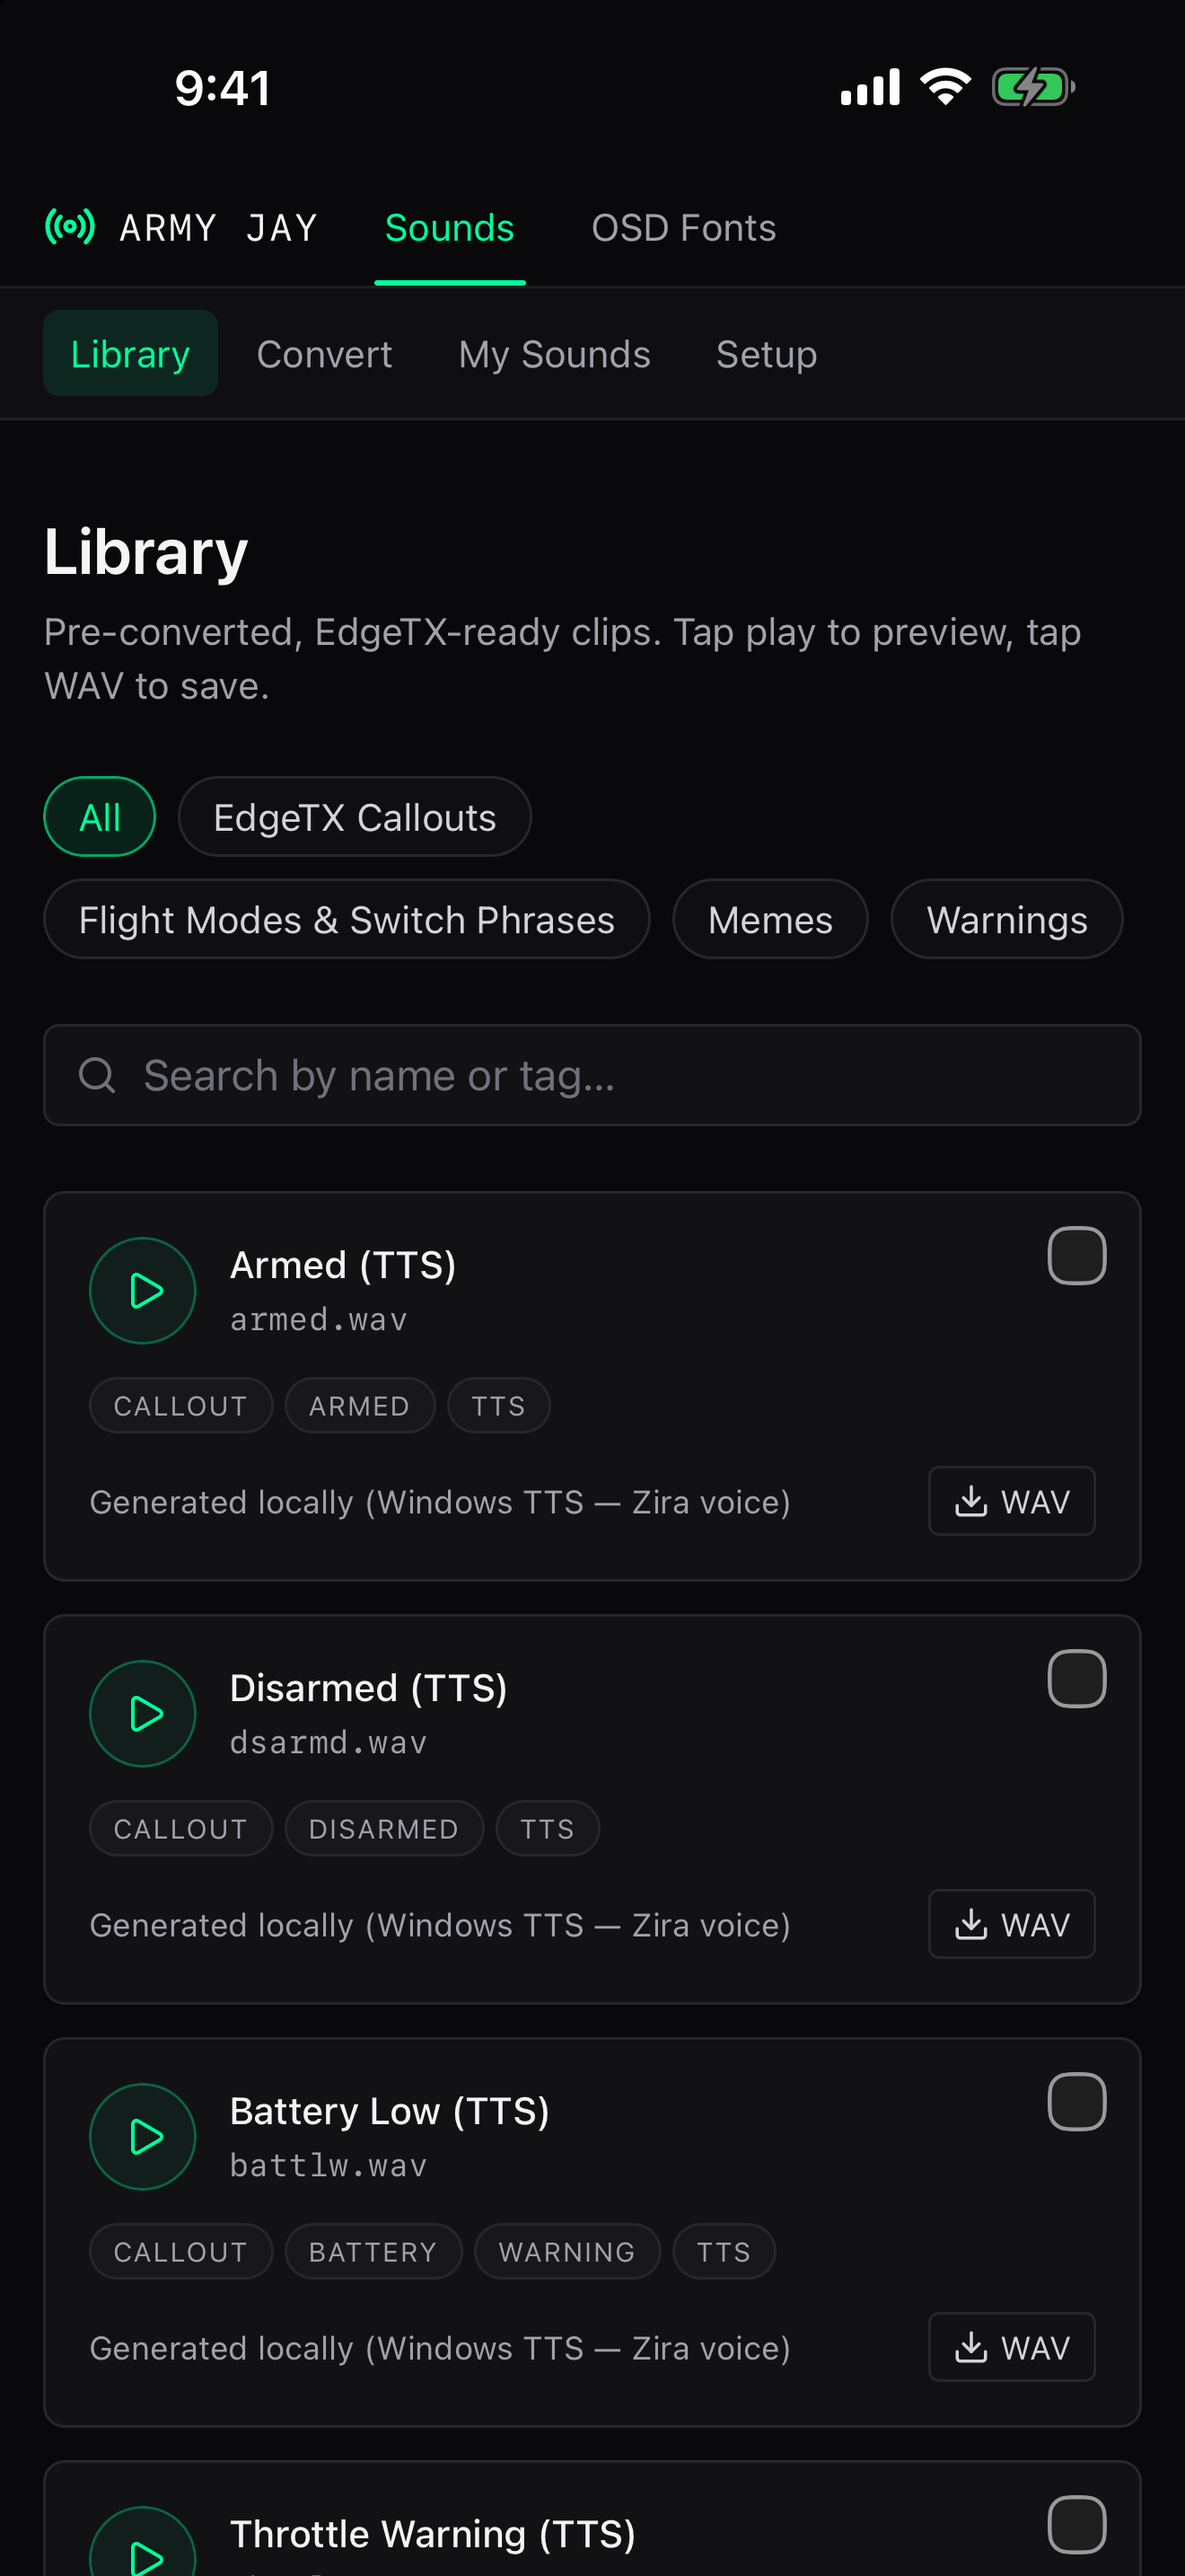
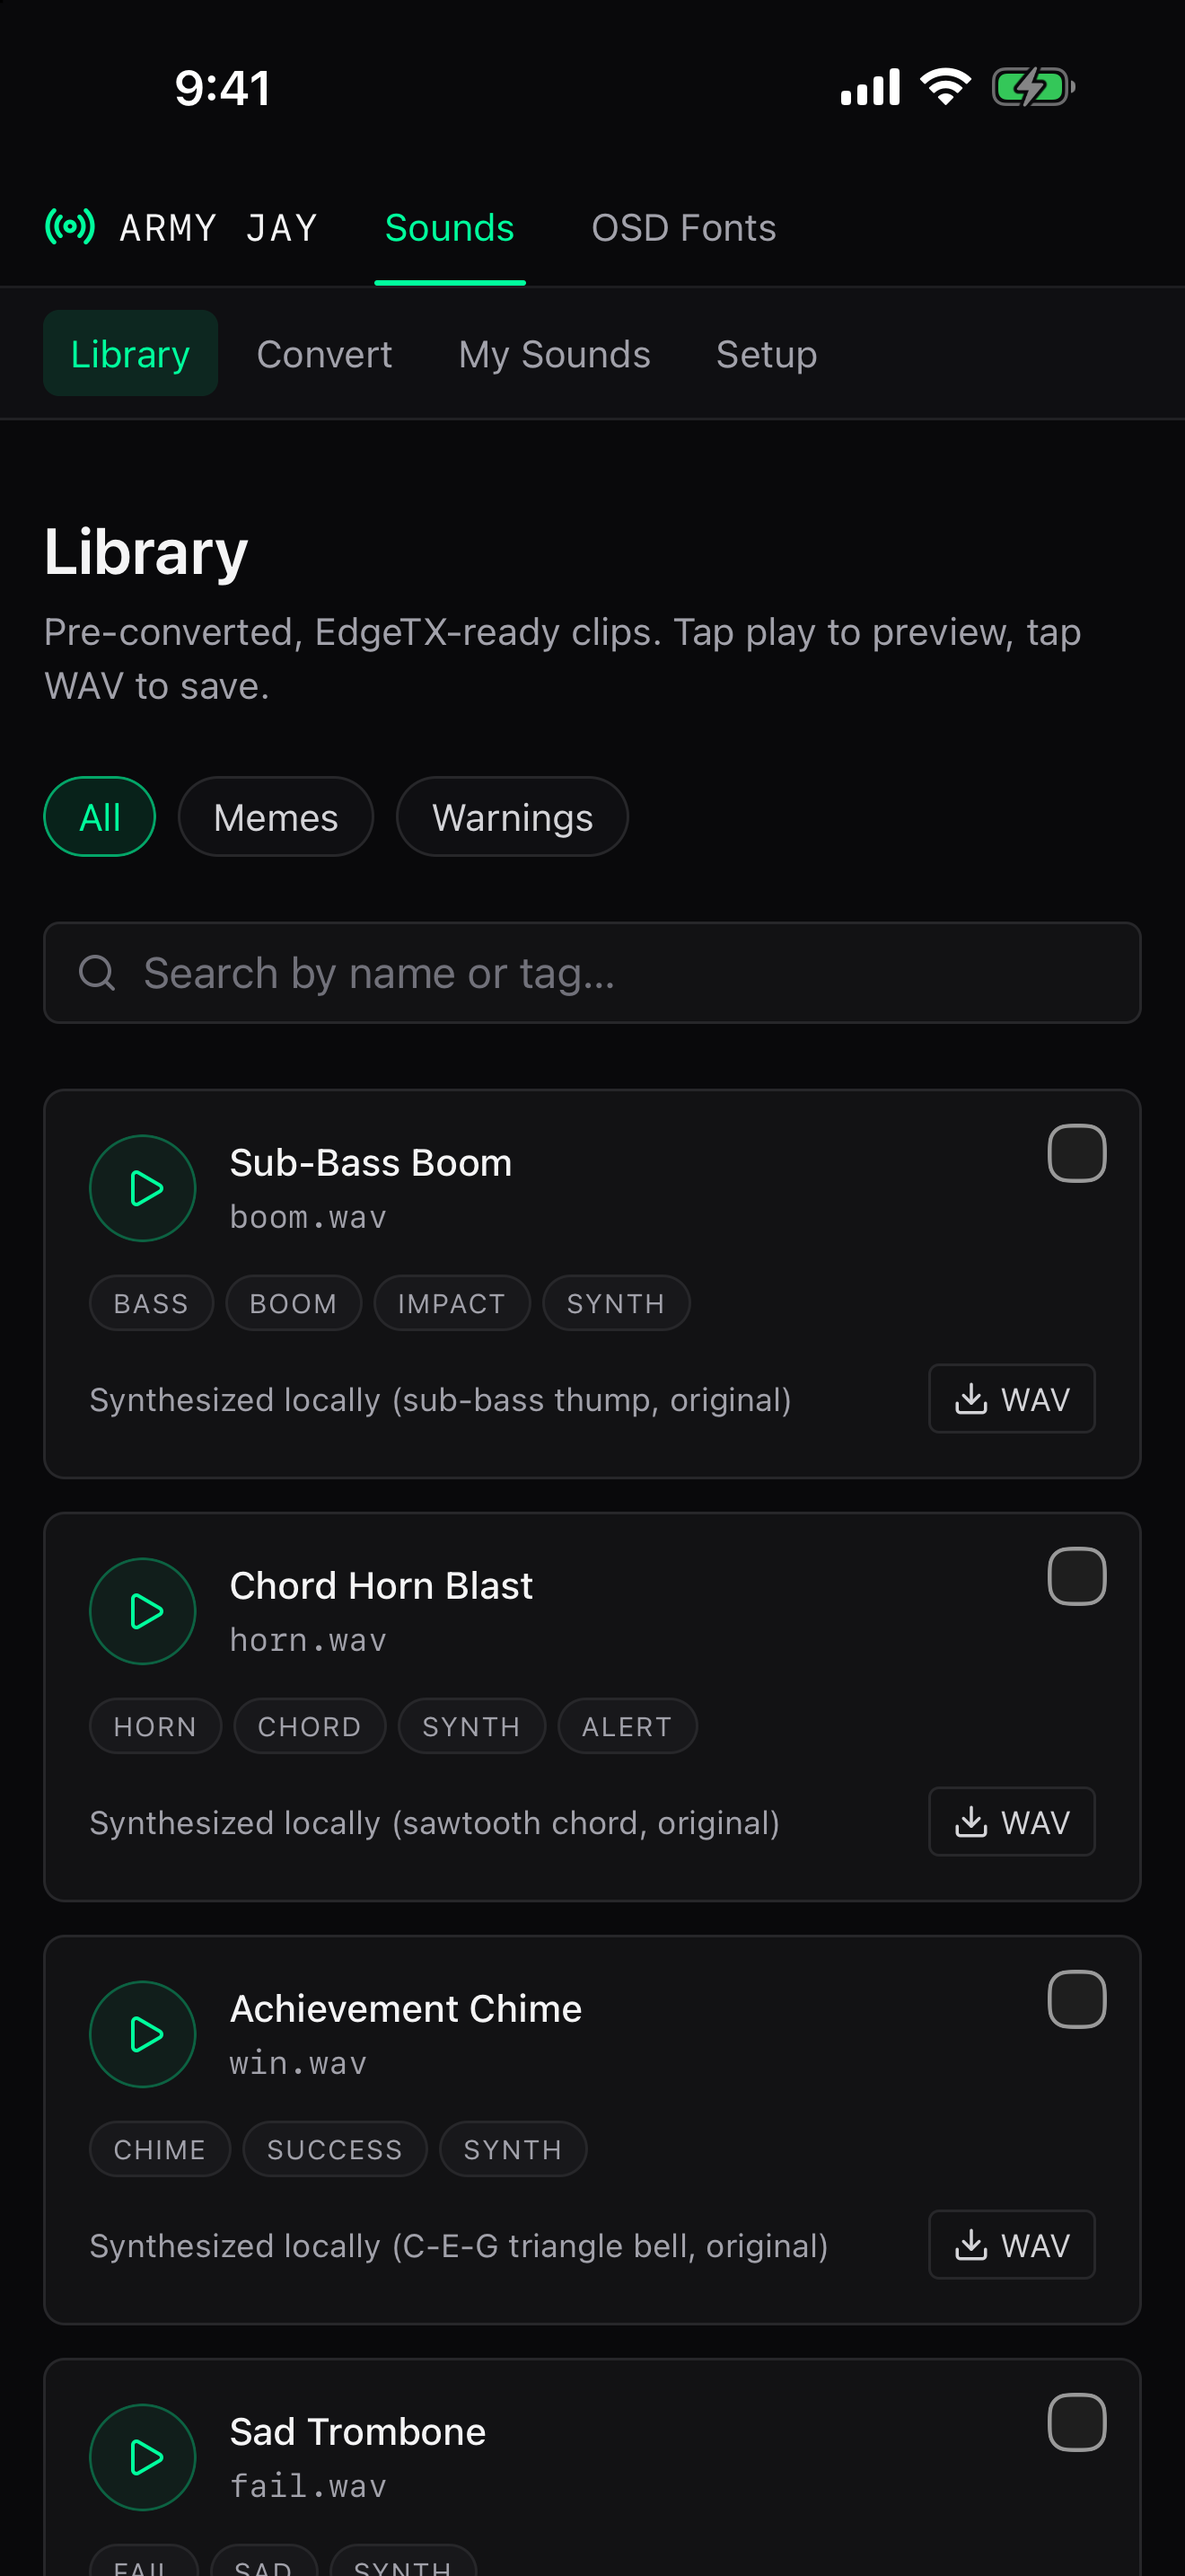
Leave the Zira voice callouts out of the iPhone app
The 21 callouts were made with Windows' Zira TTS voice, and Microsoft's
terms for redistributing that output in an app are unclear. They are now
tagged windows-tts, which the app's licence allowlist drops, so the app
ships only the 6 synthesized tones. The site keeps all of them.

The Library screenshot and the listing's wording follow.

diff --git a/docs/APP_STORE_SUBMISSION.md b/docs/APP_STORE_SUBMISSION.md
@@ -35,7 +35,7 @@ description: |
   SOUNDS FOR EDGETX
   Turn any audio clip into the exact file EdgeTX radios accept: 32 kHz, mono, 16-bit WAV. Pick a file from Files, trim it to the second you want, choose which event it should play on, and save it straight to Files or AirDrop it to your computer. Conversion happens on your phone; nothing is uploaded.
 
-  Not sure what to call it? Trigger presets fill in the filenames EdgeTX plays on its own, for events like arming, disarming and low battery. A library of ready-made callouts is included, and every clip you convert is kept in My Sounds so you can save them all as one ZIP for your SD card.
+  Not sure what to call it? Trigger presets fill in the filenames EdgeTX plays on its own, for events like arming, disarming and low battery. A handful of ready-made warning tones is included, and every clip you convert is kept in My Sounds so you can save them all as one ZIP for your SD card.
 
   OSD FONTS FOR BETAFLIGHT
   Browse the Army Jay MAX7456 character sets for analog Betaflight OSDs: bold stencil letters and chunky icons, each outlined in black so they read over bright sky and dark ground. Every glyph is shown decoded from the font file itself.
@@ -45,7 +45,7 @@ description: |
   Features:
   - Convert MP3, M4A, WAV and FLAC to EdgeTX-ready WAV
   - Trim clips and name them for EdgeTX's built-in events
-  - Library of ready-made flight callouts
+  - Ready-made warning tones and sound effects
   - My Sounds keeps everything you convert; save it all as one ZIP
   - Three Army Jay OSD font variants, including a high-readability set
   - Pixel glyph editor and boot splash designer
@@ -62,7 +62,7 @@ marketing_url: https://chalkyjason.github.io/MyWebsite/projects/army-jay/
 ### 6.9-inch (iPhone 17 Pro Max)
 
 - screenshots/appstore/01-convert.png        # a clip trimmed, named for the "armed" event, converted
-- screenshots/appstore/02-library.png        # the callout library
+- screenshots/appstore/02-library.png        # the library of ready-made tones
 - screenshots/appstore/03-font.png           # the armyjay_full font and its boot splash
 - screenshots/appstore/04-editor.png         # the pixel glyph editor
 - screenshots/appstore/05-start-screen.png   # a boot splash typed in with the text template
@@ -126,9 +126,9 @@ Open items the app's code can't settle:
    Army Jay fonts only. The Army Jay fonts match stock at 8 of 256 indexes
    (MODIFIED_INDEXES.md), and all 8 are blank or transparent -- no stock
    artwork ships.
-2. **The library's voice callouts were made with Windows' Zira TTS voice.**
-   Check that Microsoft's terms allow redistributing that output in a
-   free app.
+2. ~~**The Zira voice callouts.**~~ Resolved: the 21 callouts made with
+   Windows' Zira TTS voice are tagged `windows-tts` and left out of the app;
+   it ships the 6 synthesized tones only. The website keeps them.
 3. **Test on a real iPhone**: the device checklist in
    `docs/superpowers/specs/2026-09-30-capacitor-ios-app-design.md`.
 4. **Phone number** for the review contact, above.

diff --git a/web/README.md b/web/README.md
@@ -118,11 +118,13 @@ npm run ios:sim     # unsigned simulator build (DerivedData under ~/Library)
 npm run ios:open    # the Xcode project, for a signed build on a phone
 ```
 
-`dist-ios/` is `dist/` with the library trimmed to the 27 sounds licensed
+`dist-ios/` is `dist/` with the library trimmed to the 6 sounds licensed
 `generated-original` (`scripts/trim-library.mjs`, an allowlist that fails
-closed) and the web-host files removed (`scripts/prepare-ios.mjs`).
-Capacitor's `webDir` points at `dist-ios/`, never `dist/`, so the 71
-fair-use clips cannot reach the App Store build.
+closed), and ffmpeg, Betaflight's stock font and the web-host files removed
+(`scripts/prepare-ios.mjs`). Capacitor's `webDir` points at `dist-ios/`,
+never `dist/`, so the 71 fair-use clips and the 21 `windows-tts` callouts
+(made with Windows' Zira voice, whose terms for redistribution are unclear)
+cannot reach the App Store build.
 
 The Xcode project under `ios/` is committed. It is iPhone-only, portrait,
 iOS 15+, forced dark, and carries the privacy manifest the Filesystem plugin
